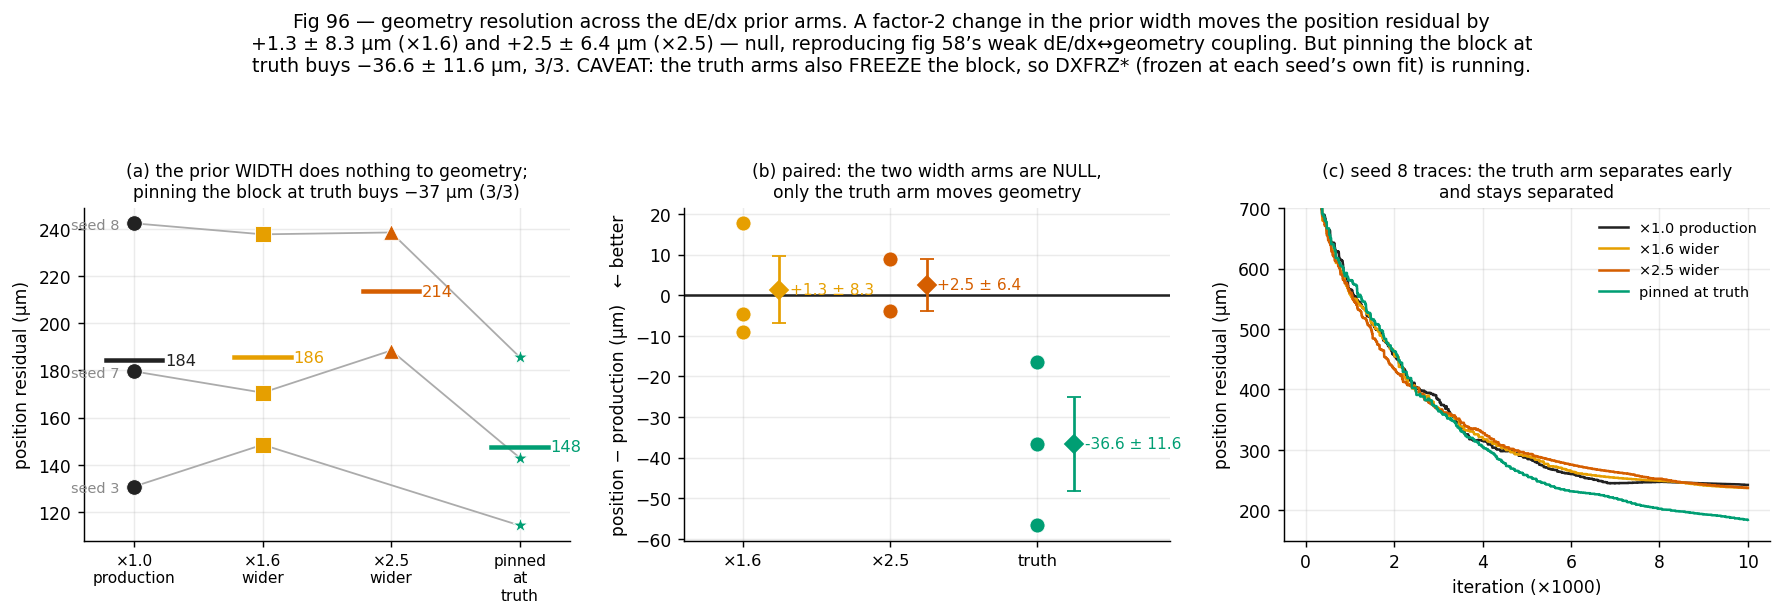
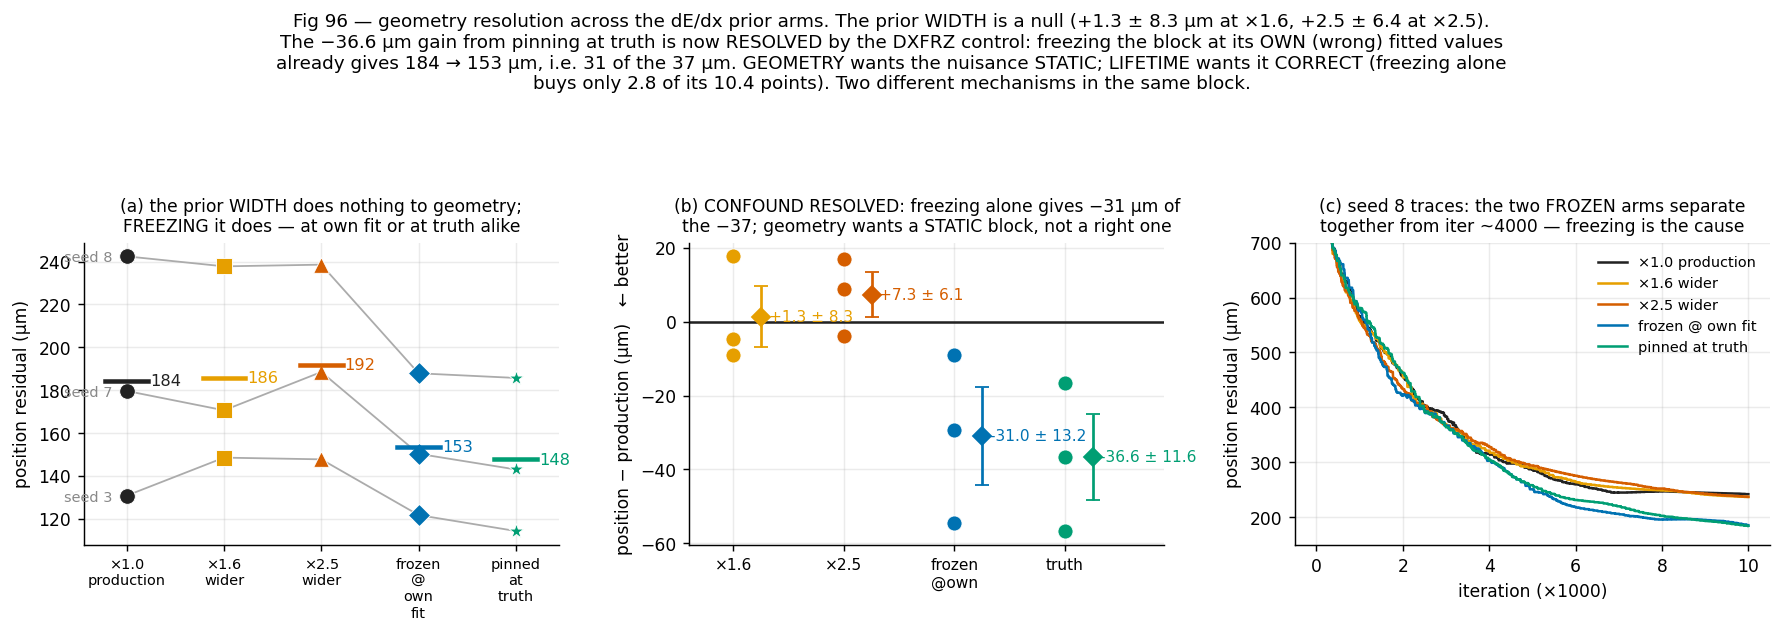
fig 96 updated: DXFRZ control resolves the geometry confound at n=3
Freezing the dEdx block at its OWN (wrong) fitted values already gives
184 -> 153 um, 31 of the 37 um that truth-pinning gives. So GEOMETRY
wants the nuisance STATIC, while LIFETIME wants it CORRECT (freezing
alone buys 2.8 of its 10.4 points). Two mechanisms in one block.

Claude-Session: https://claude.ai/code/session_01AMc19Km3iX9DSrSGRf7Zz2

diff --git a/make_geom_prior_fig.py b/make_geom_prior_fig.py
@@ -54,7 +54,8 @@ def rd(tag):
 
 
 ARMS = [('×1.0 production', 'DSREP', INK, 'o'), ('×1.6 wider', 'WIDE16D', ORANGE, 's'),
-        ('×2.5 wider', 'WIDE25D', RED, '^'), ('pinned at truth', 'DXTRU', GREEN, '*')]
+        ('×2.5 wider', 'WIDE25D', RED, '^'), ('frozen @ own fit', 'DXFRZ', BLUE, 'D'),
+        ('pinned at truth', 'DXTRU', GREEN, '*')]
 D = {lab: [(s, rd(f'{pre}{s}')) for s in (3, 7, 8) if rd(f'{pre}{s}')]
      for lab, pre, _, _ in ARMS}
 
@@ -78,26 +79,28 @@ for i, (lab, _, col, _) in enumerate(ARMS):
     m = np.mean([d[1]['pos'] for d in D[lab]])
     a.plot([i - .22, i + .22], [m, m], color=col, lw=2.5, zorder=4)
     a.annotate(f'{m:.0f}', (i + .24, m), fontsize=9, color=col, va='center')
-a.set_xticks(range(4), [l.replace(' ', '\n') for l, _, _, _ in ARMS], fontsize=8.5)
+a.set_xticks(range(len(ARMS)), [l.replace(' ', '\n') for l, _, _, _ in ARMS], fontsize=8)
 a.set_ylabel('position residual (µm)')
-a.set_title('(a) the prior WIDTH does nothing to geometry;\npinning the block at truth buys −37 µm (3/3)',
+a.set_title('(a) the prior WIDTH does nothing to geometry;\nFREEZING it does — at own fit or at truth alike',
             fontsize=9.5)
 
 # (b) paired deltas
 a = ax[1]
-labs = ['×1.6', '×2.5', 'truth']
-for i, (lab, key) in enumerate(zip(labs, ['×1.6 wider', '×2.5 wider', 'pinned at truth'])):
+labs = ['×1.6', '×2.5', 'frozen\n@own', 'truth']
+for i, (lab, key) in enumerate(zip(labs, ['×1.6 wider', '×2.5 wider', 'frozen @ own fit',
+                                          'pinned at truth'])):
     d = [r['pos'] - dict(D['×1.0 production'])[s]['pos'] for s, r in D[key]]
-    col = [ORANGE, RED, GREEN][i]
+    col = [ORANGE, RED, BLUE, GREEN][i]
     a.scatter([i] * len(d), d, s=70, color=col, zorder=3, edgecolors='white', lw=.5)
     m, se = np.mean(d), np.std(d, ddof=1) / np.sqrt(len(d))
     a.errorbar(i + .25, m, yerr=se, fmt='D', color=col, ms=7, capsize=4, zorder=4)
     a.annotate(f'{m:+.1f} ± {se:.1f}', (i + .32, m), fontsize=8.5, color=col, va='center')
 a.axhline(0, color=INK, lw=1.4)
-a.set_xticks(range(3), labs, fontsize=9)
-a.set_xlim(-.4, 2.9)
+a.set_xticks(range(4), labs, fontsize=8.5)
+a.set_xlim(-.4, 3.9)
 a.set_ylabel('position − production (µm)   ← better')
-a.set_title('(b) paired: the two width arms are NULL,\nonly the truth arm moves geometry', fontsize=9.5)
+a.set_title('(b) CONFOUND RESOLVED: freezing alone gives −31 µm of\nthe −37; geometry wants a STATIC block, not a right one',
+            fontsize=9.5)
 
 # (c) convergence traces, seed 8
 a = ax[2]
@@ -113,13 +116,14 @@ for lab, _, col, _ in ARMS:
 a.set_xlabel('iteration (×1000)')
 a.set_ylabel('position residual (µm)')
 a.set_ylim(150, 700)
-a.set_title('(c) seed 8 traces: the truth arm separates early\nand stays separated', fontsize=9.5)
+a.set_title('(c) seed 8 traces: the two FROZEN arms separate\ntogether from iter ~4000 — freezing is the cause', fontsize=9.5)
 a.legend(frameon=False, fontsize=8, loc='upper right')
 
-fig.suptitle('Fig 96 — geometry resolution across the dE/dx prior arms. A factor-2 change in the prior width moves the position residual by\n'
-             '+1.3 ± 8.3 µm (×1.6) and +2.5 ± 6.4 µm (×2.5) — null, reproducing fig 58’s weak dE/dx↔geometry coupling. But pinning the block at\n'
-             'truth buys −36.6 ± 11.6 µm, 3/3. CAVEAT: the truth arms also FREEZE the block, so DXFRZ* (frozen at each seed’s own fit) is running.',
-             fontsize=10.5, y=1.09)
+fig.suptitle('Fig 96 — geometry resolution across the dE/dx prior arms. The prior WIDTH is a null (+1.3 ± 8.3 µm at ×1.6, +2.5 ± 6.4 at ×2.5).\n'
+             'The −36.6 µm gain from pinning at truth is now RESOLVED by the DXFRZ control: freezing the block at its OWN (wrong) fitted values\n'
+             'already gives 184 → 153 µm, i.e. 31 of the 37 µm. GEOMETRY wants the nuisance STATIC; LIFETIME wants it CORRECT (freezing alone\n'
+             'buys only 2.8 of its 10.4 points). Two different mechanisms in the same block.',
+             fontsize=10.2, y=1.12)
 fig.tight_layout()
 fig.savefig(f'{OUT}/fig96_geom_vs_prior.png')
 print('wrote fig96')
